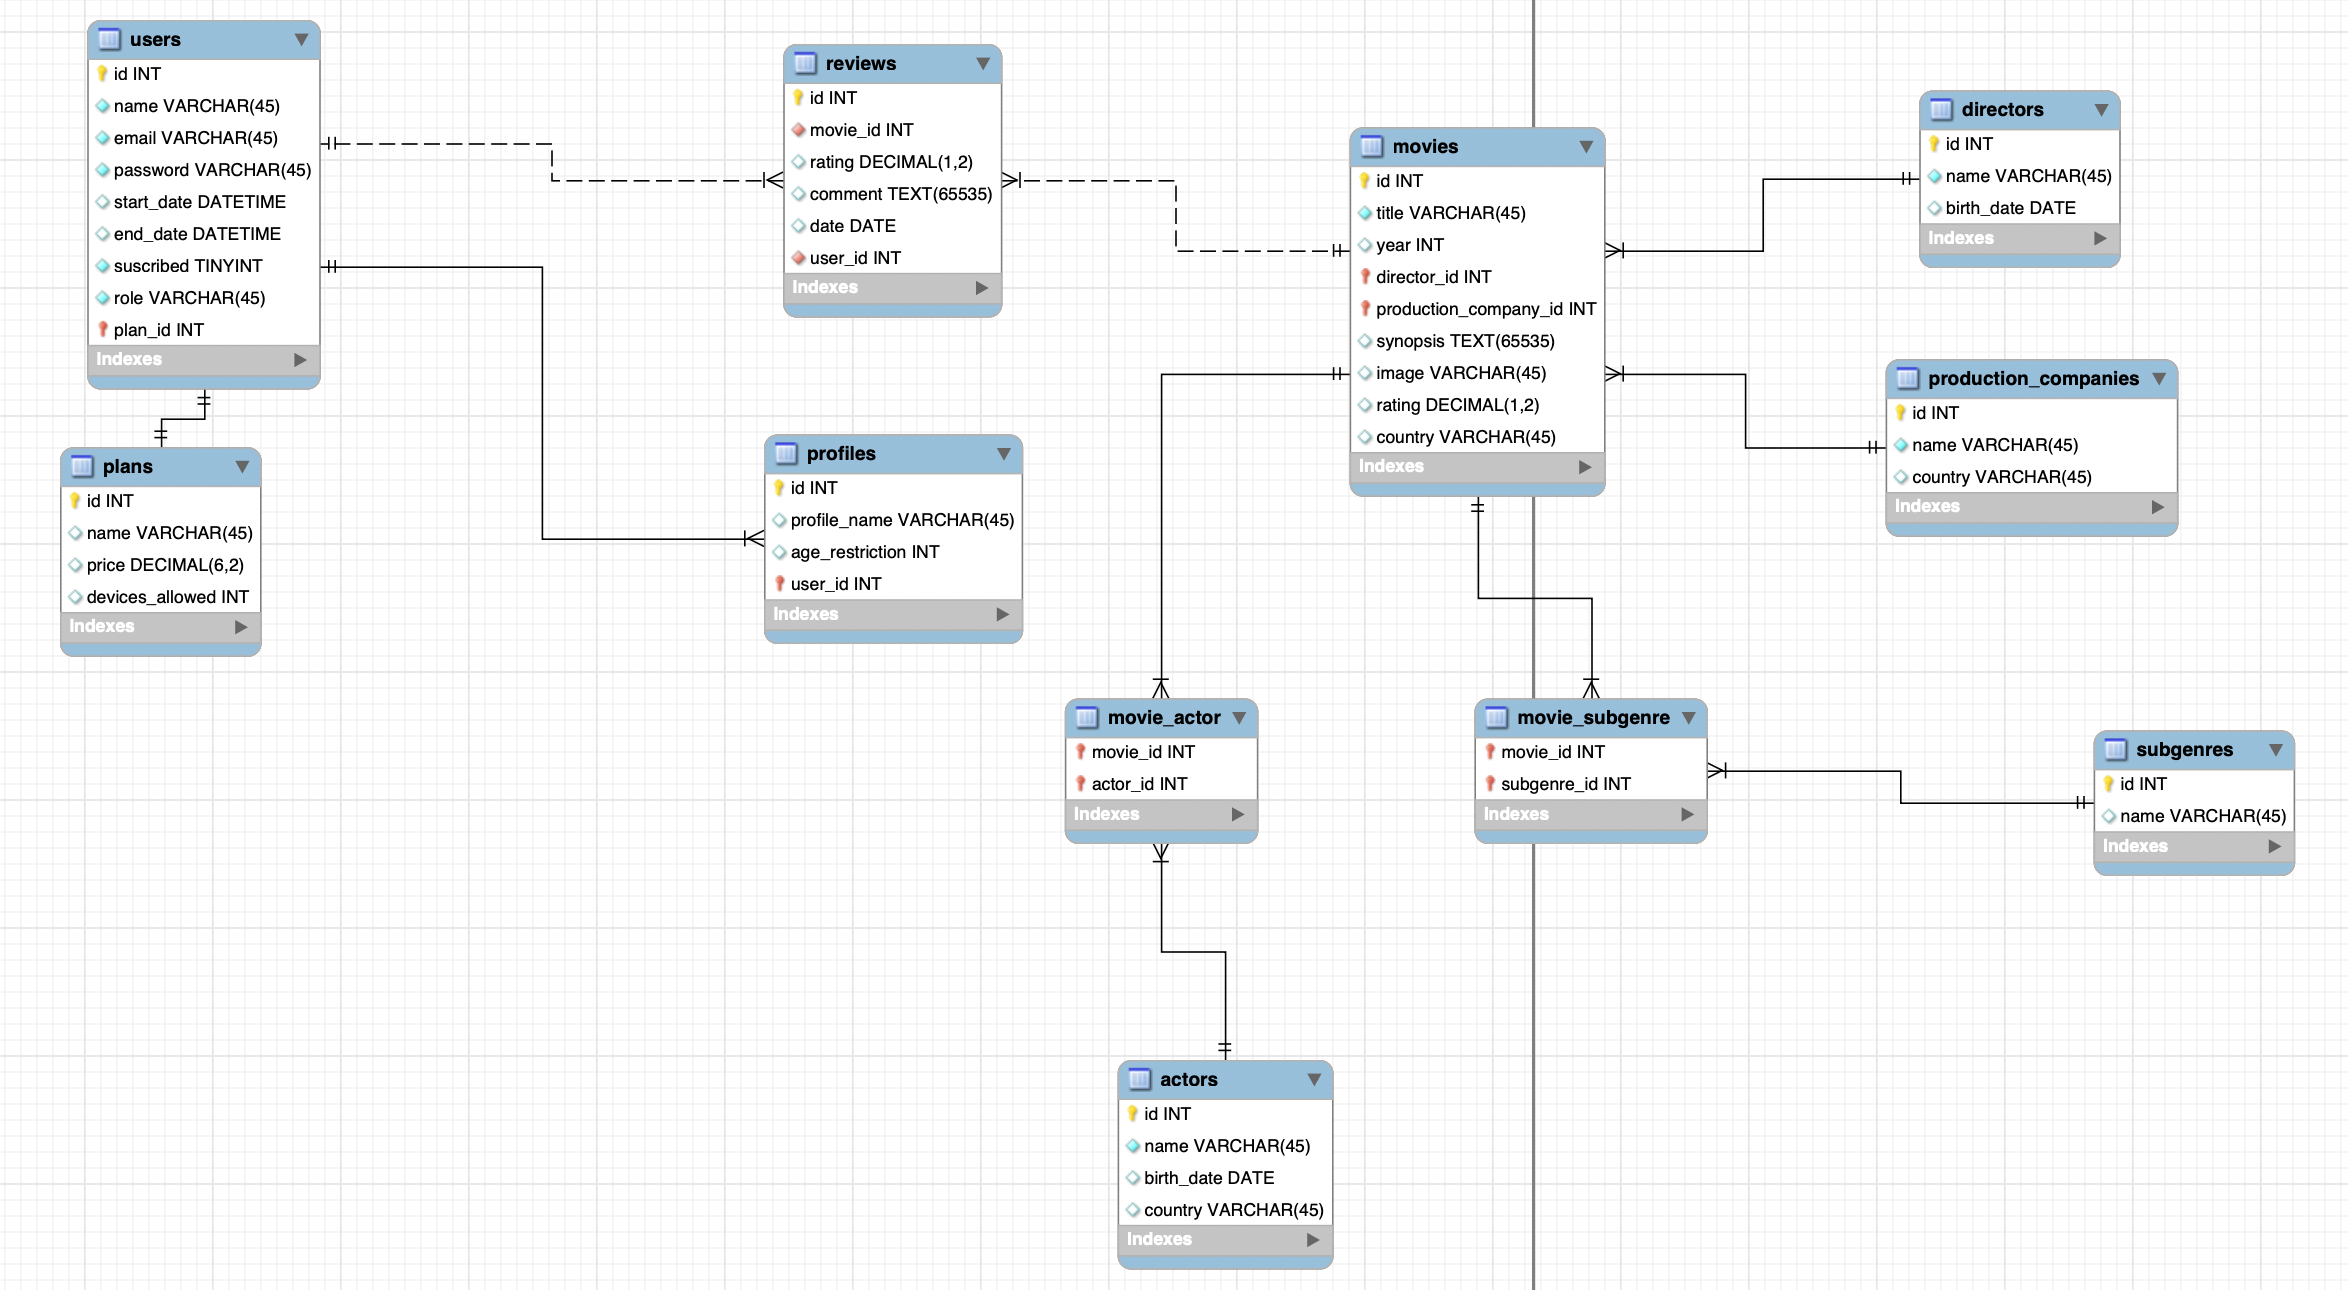
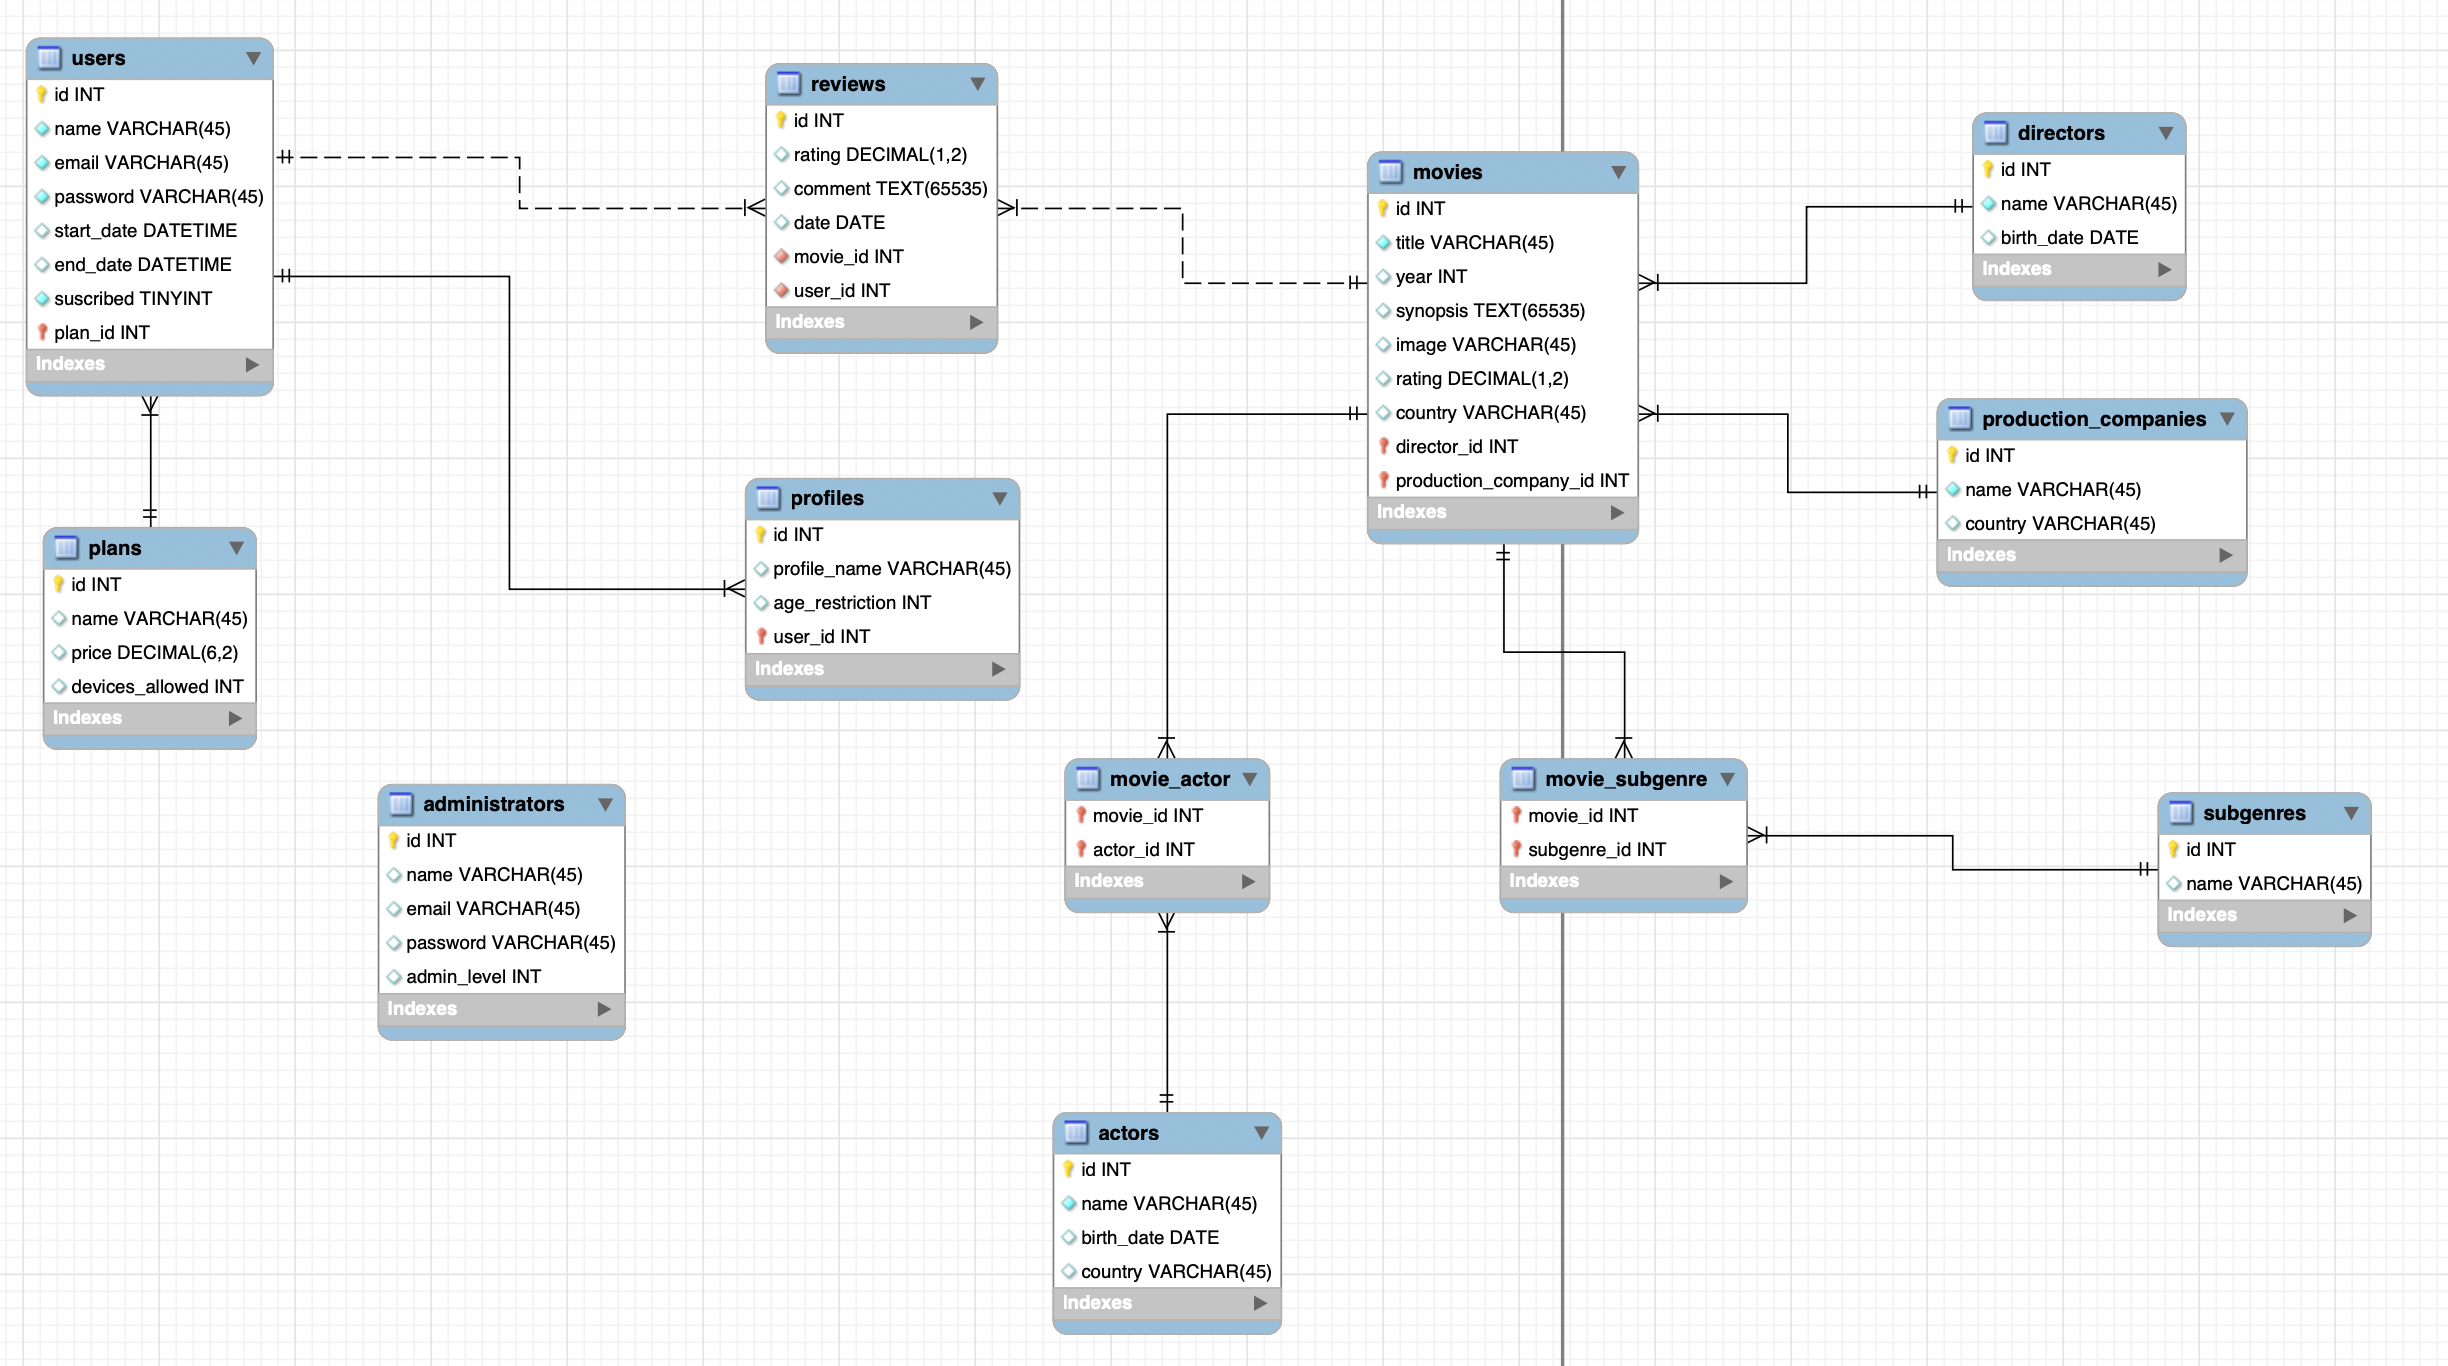
CheckRole, RefreshDatabase y readme
Actualización de la BD y del middleware, command aparte que hace migrate:fresh --seed pero obtiene las imágenes de la API, creación de README.md

diff --git a/database/seeders/HorrorBlockbustersSeeder.php b/database/seeders/HorrorBlockbustersSeeder.php
@@ -8,6 +8,7 @@ use App\Models\ProductionCompany;
 use App\Models\Actor;
 use App\Models\Subgenre;
 use App\Models\Movie;
+use App\Models\Review;
 use Illuminate\Support\Facades\DB;
 
 class HorrorBlockbustersSeeder extends Seeder
@@ -239,5 +240,36 @@ class HorrorBlockbustersSeeder extends Seeder
             ['movie_id' => 25, 'subgenre_id' => 2],  // Conjuring 2 - Sobrenatural
             ['movie_id' => 25, 'subgenre_id' => 11], // Conjuring 2 - Posesión
         ]);
+
+        $reviewsData = [
+            [
+                'id' => 1,
+                'user_id' => 1,
+                'movie_id' => 1,
+                'rating' => 5,
+                'comment' => 'Amazing movie! A must-watch.',
+                'date' => '2017-10-01',
+            ],
+            [
+                'id' => 2,
+                'user_id' => 2,
+                'movie_id' => 2,
+                'rating' => 4,
+                'comment' => 'Great storyline and characters.',
+                'date' => '2023-10-02',
+            ],
+            [
+                'id' => 3,
+                'user_id' => 1,
+                'movie_id' => 3,
+                'rating' => 3,
+                'comment' => null,
+                'date' => '2025-10-03',
+            ],
+        ];
+
+        foreach ($reviewsData as $review) {
+            Review::updateOrCreate(['id' => $review['id']], $review);
+        }
     }
 }

diff --git a/config/auth.php b/config/auth.php
@@ -14,7 +14,7 @@ return [
     */
 
     'defaults' => [
-        'guard' => 'api',
+        'guard' => 'apiUsers',
         'passwords' => 'users',
     ],
 
@@ -40,9 +40,13 @@ return [
             'driver' => 'session',
             'provider' => 'users',
         ],
-        'api' => [
+        'apiUsers' => [
             'driver' => 'jwt',
             'provider' => 'users',
+        ],
+        'apiAdmin' => [
+            'driver' => 'jwt',
+            'provider' => 'administrators',
         ],
     ],
 
@@ -66,7 +70,12 @@ return [
     'providers' => [
         'users' => [
             'driver' => 'eloquent',
-            'model' => env('AUTH_MODEL', App\Models\User::class),
+            'model' => App\Models\User::class,
+        ],
+
+        'administrators' => [
+            'driver' => 'eloquent',
+            'model' => App\Models\Administrator::class,
         ],
 
         // 'users' => [
@@ -74,6 +83,11 @@ return [
         //     'table' => 'users',
         // ],
     ],
+
+    /*
+    Provider: dice “qué modelo usar para buscar un usuario”. Ejemplo: users → App\Models\User.
+    Guard: dice “cómo autenticar al usuario”, y está ligado a un provider. Ejemplo: apiUsers → JWT usando users.
+    */
 
     /*
     |--------------------------------------------------------------------------

diff --git a/database/seeders/AccountsDefaultSeeder.php b/database/seeders/AccountsDefaultSeeder.php
@@ -80,38 +80,5 @@ class AccountsDefaultSeeder extends Seeder
         }
 
         $this->call(HorrorBlockbustersSeeder::class);
-        $this->call(MovieImageSeeder::class);
-
-
-        $reviewsData = [
-            [
-                'id' => 1,
-                'user_id' => 1,
-                'movie_id' => 1,
-                'rating' => 5,
-                'comment' => 'Amazing movie! A must-watch.',
-                'date' => '2017-10-01',
-            ],
-            [
-                'id' => 2,
-                'user_id' => 2,
-                'movie_id' => 2,
-                'rating' => 4,
-                'comment' => 'Great storyline and characters.',
-                'date' => '2023-10-02',
-            ],
-            [
-                'id' => 3,
-                'user_id' => 1,
-                'movie_id' => 3,
-                'rating' => 3,
-                'comment' => null,
-                'date' => '2025-10-03',
-            ],
-        ];
-
-        foreach ($reviewsData as $review) {
-            Review::updateOrCreate(['id' => $review['id']], $review);
-        }
     }
 }

diff --git a/app/Http/Middleware/CheckRole.php b/app/Http/Middleware/CheckRole.php
@@ -19,14 +19,18 @@ class CheckRole
     {
         try {
             $user = JWTAuth::parseToken()->authenticate();
+
+            if (!$user) {
+                return response()->json(['error' => 'User not found'], 404);
+            }
+
+            if ($user->admin_level == 0) {
+                return response()->json(['error' => 'Forbidden: insufficient permissions'], 403);
+            }
         } catch (JWTException $e) {
             return response()->json(['error' => 'Token invalid or missing'], 401);
         }
 
-        if (!$user || $user->role != "admin")
-            return response()->json(['error' => 'Forbidden: insufficient permissions'], 403);
-
-
-        return $next($request);
+        return $next($request); // El middleware le dice a Laravel que continúe procesando la petición y pase al siguiente middleware/controller
     }
 }

diff --git a/app/Console/Commands/RefreshDatabase.php b/app/Console/Commands/RefreshDatabase.php
@@ -1,0 +1,36 @@
+<?php
+
+namespace App\Console\Commands;
+
+use Illuminate\Console\Command;
+
+class RefreshDatabase extends Command
+{
+    /**
+     * El nombre y la firma del comando.
+     */
+    protected $signature = 'db:refreshAll';
+
+    /**
+     * La descripción del comando.
+     */
+    protected $description = 'Run migrate:fresh, seed the database, and fetch the movie images from the TMDB API (The Movie DataBase)';
+
+    /**
+     * Ejecutar el comando.
+     */
+    public function handle()
+    {
+        $this->info('Refreshing database...');
+
+        $this->call('migrate:fresh', [
+            '--seed' => true,
+        ]);
+
+        $this->call('db:seed', [
+            '--class' => 'Database\\Seeders\\MovieImageSeeder',
+        ]);
+
+        $this->info('Database refreshed, seeded and fetched images!');
+    }
+}

diff --git a/database/migrations/2025_10_08_104435_create_administrators_table.php b/database/migrations/2025_10_08_104435_create_administrators_table.php
@@ -1,0 +1,32 @@
+<?php
+
+use Illuminate\Database\Migrations\Migration;
+use Illuminate\Database\Schema\Blueprint;
+use Illuminate\Support\Facades\Schema;
+
+return new class extends Migration
+{
+    /**
+     * Run the migrations.
+     */
+    public function up(): void
+    {
+        Schema::create('administrators', function (Blueprint $table) {
+            $table->id();
+            $table->string('name');
+            $table->string('email')->unique();
+            $table->string('password');
+            $table->integer('admin_level');
+            $table->timestamps();
+        });
+    }
+
+    // ['name', 'email', 'password', 'admin_level'];
+    /**
+     * Reverse the migrations.
+     */
+    public function down(): void
+    {
+        Schema::dropIfExists('administrators');
+    }
+};

diff --git a/database/migrations/0001_01_01_000001_create_users_table.php b/database/migrations/0001_01_01_000001_create_users_table.php
@@ -20,7 +20,7 @@ return new class extends Migration
             $table->dateTime('start_date')->nullable();
             $table->dateTime('end_date')->nullable();
             $table->boolean('suscribed')->default(false);
-            $table->string('role')->default('user');
+            $table->integer('admin_level')->default(0); // Si tiene nivel 0 es un User y si es mayor es Admin, cuanto más alto más nivel de administración
             $table->foreignId('plan_id')->default(1)->constrained('plans');
             $table->rememberToken();
             $table->timestamps();

diff --git a/database/seeders/DatabaseSeeder.php b/database/seeders/DatabaseSeeder.php
@@ -2,7 +2,9 @@
 
 namespace Database\Seeders;
 
+use App\Models\Administrator;
 use App\Models\Plan;
+use App\Models\Review;
 use App\Models\User;
 // use Illuminate\Database\Console\Seeds\WithoutModelEvents;
 use Illuminate\Database\Seeder;
@@ -45,8 +47,7 @@ class DatabaseSeeder extends Seeder
             'name' => 'Administrator',
             'email' => 'admin@escream.com',
             'password' => 'admin1234',
-            'plan_id' => 1,
-            'role' => 'admin'
+            'admin_level' => 3
         ]);
 
         User::factory()->create([

diff --git a/routes/api.php b/routes/api.php
@@ -45,3 +45,5 @@ GET	            /movies/{movie}	    show	                   Mostrar un recurso
 PUT/PATCH	    /movies/{movie}	    update	                   Actualizar un recurso
 DELETE	        /movies/{movie}	    destroy	                   Eliminar un recurso
 */
+
+// Introducir endpoints para administradores, creando AuthAdminController

diff --git a/database/seeders/MovieImageSeeder.php b/database/seeders/MovieImageSeeder.php
@@ -3,6 +3,7 @@
 namespace Database\Seeders;
 
 use App\Models\Movie;
+use App\Models\Review;
 use Illuminate\Database\Console\Seeds\WithoutModelEvents;
 use Illuminate\Database\Seeder;
 use Illuminate\Support\Facades\Http;

diff --git a/app/Models/User.php b/app/Models/User.php
@@ -24,7 +24,7 @@ class User extends Authenticatable implements JWTSubject
         'email',
         'password',
         'plan_id',
-        'role'
+        'admin_level'
     ];
 
     /**

diff --git a/README.md b/README.md
@@ -1,61 +1,11 @@
-<p align="center"><a href="https://laravel.com" target="_blank"><img src="https://raw.githubusercontent.com/laravel/art/master/logo-lockup/5%20SVG/2%20CMYK/1%20Full%20Color/laravel-logolockup-cmyk-red.svg" width="400" alt="Laravel Logo"></a></p>
+## ⚙ Personalized Artisan Commands
 
-<p align="center">
-<a href="https://github.com/laravel/framework/actions"><img src="https://github.com/laravel/framework/workflows/tests/badge.svg" alt="Build Status"></a>
-<a href="https://packagist.org/packages/laravel/framework"><img src="https://img.shields.io/packagist/dt/laravel/framework" alt="Total Downloads"></a>
-<a href="https://packagist.org/packages/laravel/framework"><img src="https://img.shields.io/packagist/v/laravel/framework" alt="Latest Stable Version"></a>
-<a href="https://packagist.org/packages/laravel/framework"><img src="https://img.shields.io/packagist/l/laravel/framework" alt="License"></a>
-</p>
+### 🔁 `RefreshDatabase`
 
-## About Laravel
+**Description:**  
+Run `migrate:fresh`, seed the database, and fetch movie images from the [TMDB API](https://developer.themoviedb.org/docs/getting-started) (The Movie Database).
 
-Laravel is a web application framework with expressive, elegant syntax. We believe development must be an enjoyable and creative experience to be truly fulfilling. Laravel takes the pain out of development by easing common tasks used in many web projects, such as:
+**Usage:**
 
-- [Simple, fast routing engine](https://laravel.com/docs/routing).
-- [Powerful dependency injection container](https://laravel.com/docs/container).
-- Multiple back-ends for [session](https://laravel.com/docs/session) and [cache](https://laravel.com/docs/cache) storage.
-- Expressive, intuitive [database ORM](https://laravel.com/docs/eloquent).
-- Database agnostic [schema migrations](https://laravel.com/docs/migrations).
-- [Robust background job processing](https://laravel.com/docs/queues).
-- [Real-time event broadcasting](https://laravel.com/docs/broadcasting).
-
-Laravel is accessible, powerful, and provides tools required for large, robust applications.
-
-## Learning Laravel
-
-Laravel has the most extensive and thorough [documentation](https://laravel.com/docs) and video tutorial library of all modern web application frameworks, making it a breeze to get started with the framework.
-
-You may also try the [Laravel Bootcamp](https://bootcamp.laravel.com), where you will be guided through building a modern Laravel application from scratch.
-
-If you don't feel like reading, [Laracasts](https://laracasts.com) can help. Laracasts contains thousands of video tutorials on a range of topics including Laravel, modern PHP, unit testing, and JavaScript. Boost your skills by digging into our comprehensive video library.
-
-## Laravel Sponsors
-
-We would like to extend our thanks to the following sponsors for funding Laravel development. If you are interested in becoming a sponsor, please visit the [Laravel Partners program](https://partners.laravel.com).
-
-### Premium Partners
-
-- **[Vehikl](https://vehikl.com)**
-- **[Tighten Co.](https://tighten.co)**
-- **[Kirschbaum Development Group](https://kirschbaumdevelopment.com)**
-- **[64 Robots](https://64robots.com)**
-- **[Curotec](https://www.curotec.com/services/technologies/laravel)**
-- **[DevSquad](https://devsquad.com/hire-laravel-developers)**
-- **[Redberry](https://redberry.international/laravel-development)**
-- **[Active Logic](https://activelogic.com)**
-
-## Contributing
-
-Thank you for considering contributing to the Laravel framework! The contribution guide can be found in the [Laravel documentation](https://laravel.com/docs/contributions).
-
-## Code of Conduct
-
-In order to ensure that the Laravel community is welcoming to all, please review and abide by the [Code of Conduct](https://laravel.com/docs/contributions#code-of-conduct).
-
-## Security Vulnerabilities
-
-If you discover a security vulnerability within Laravel, please send an e-mail to Taylor Otwell via [taylor@laravel.com](mailto:taylor@laravel.com). All security vulnerabilities will be promptly addressed.
-
-## License
-
-The Laravel framework is open-sourced software licensed under the [MIT license](https://opensource.org/licenses/MIT).
+```bash
+php artisan db:refreshAll
